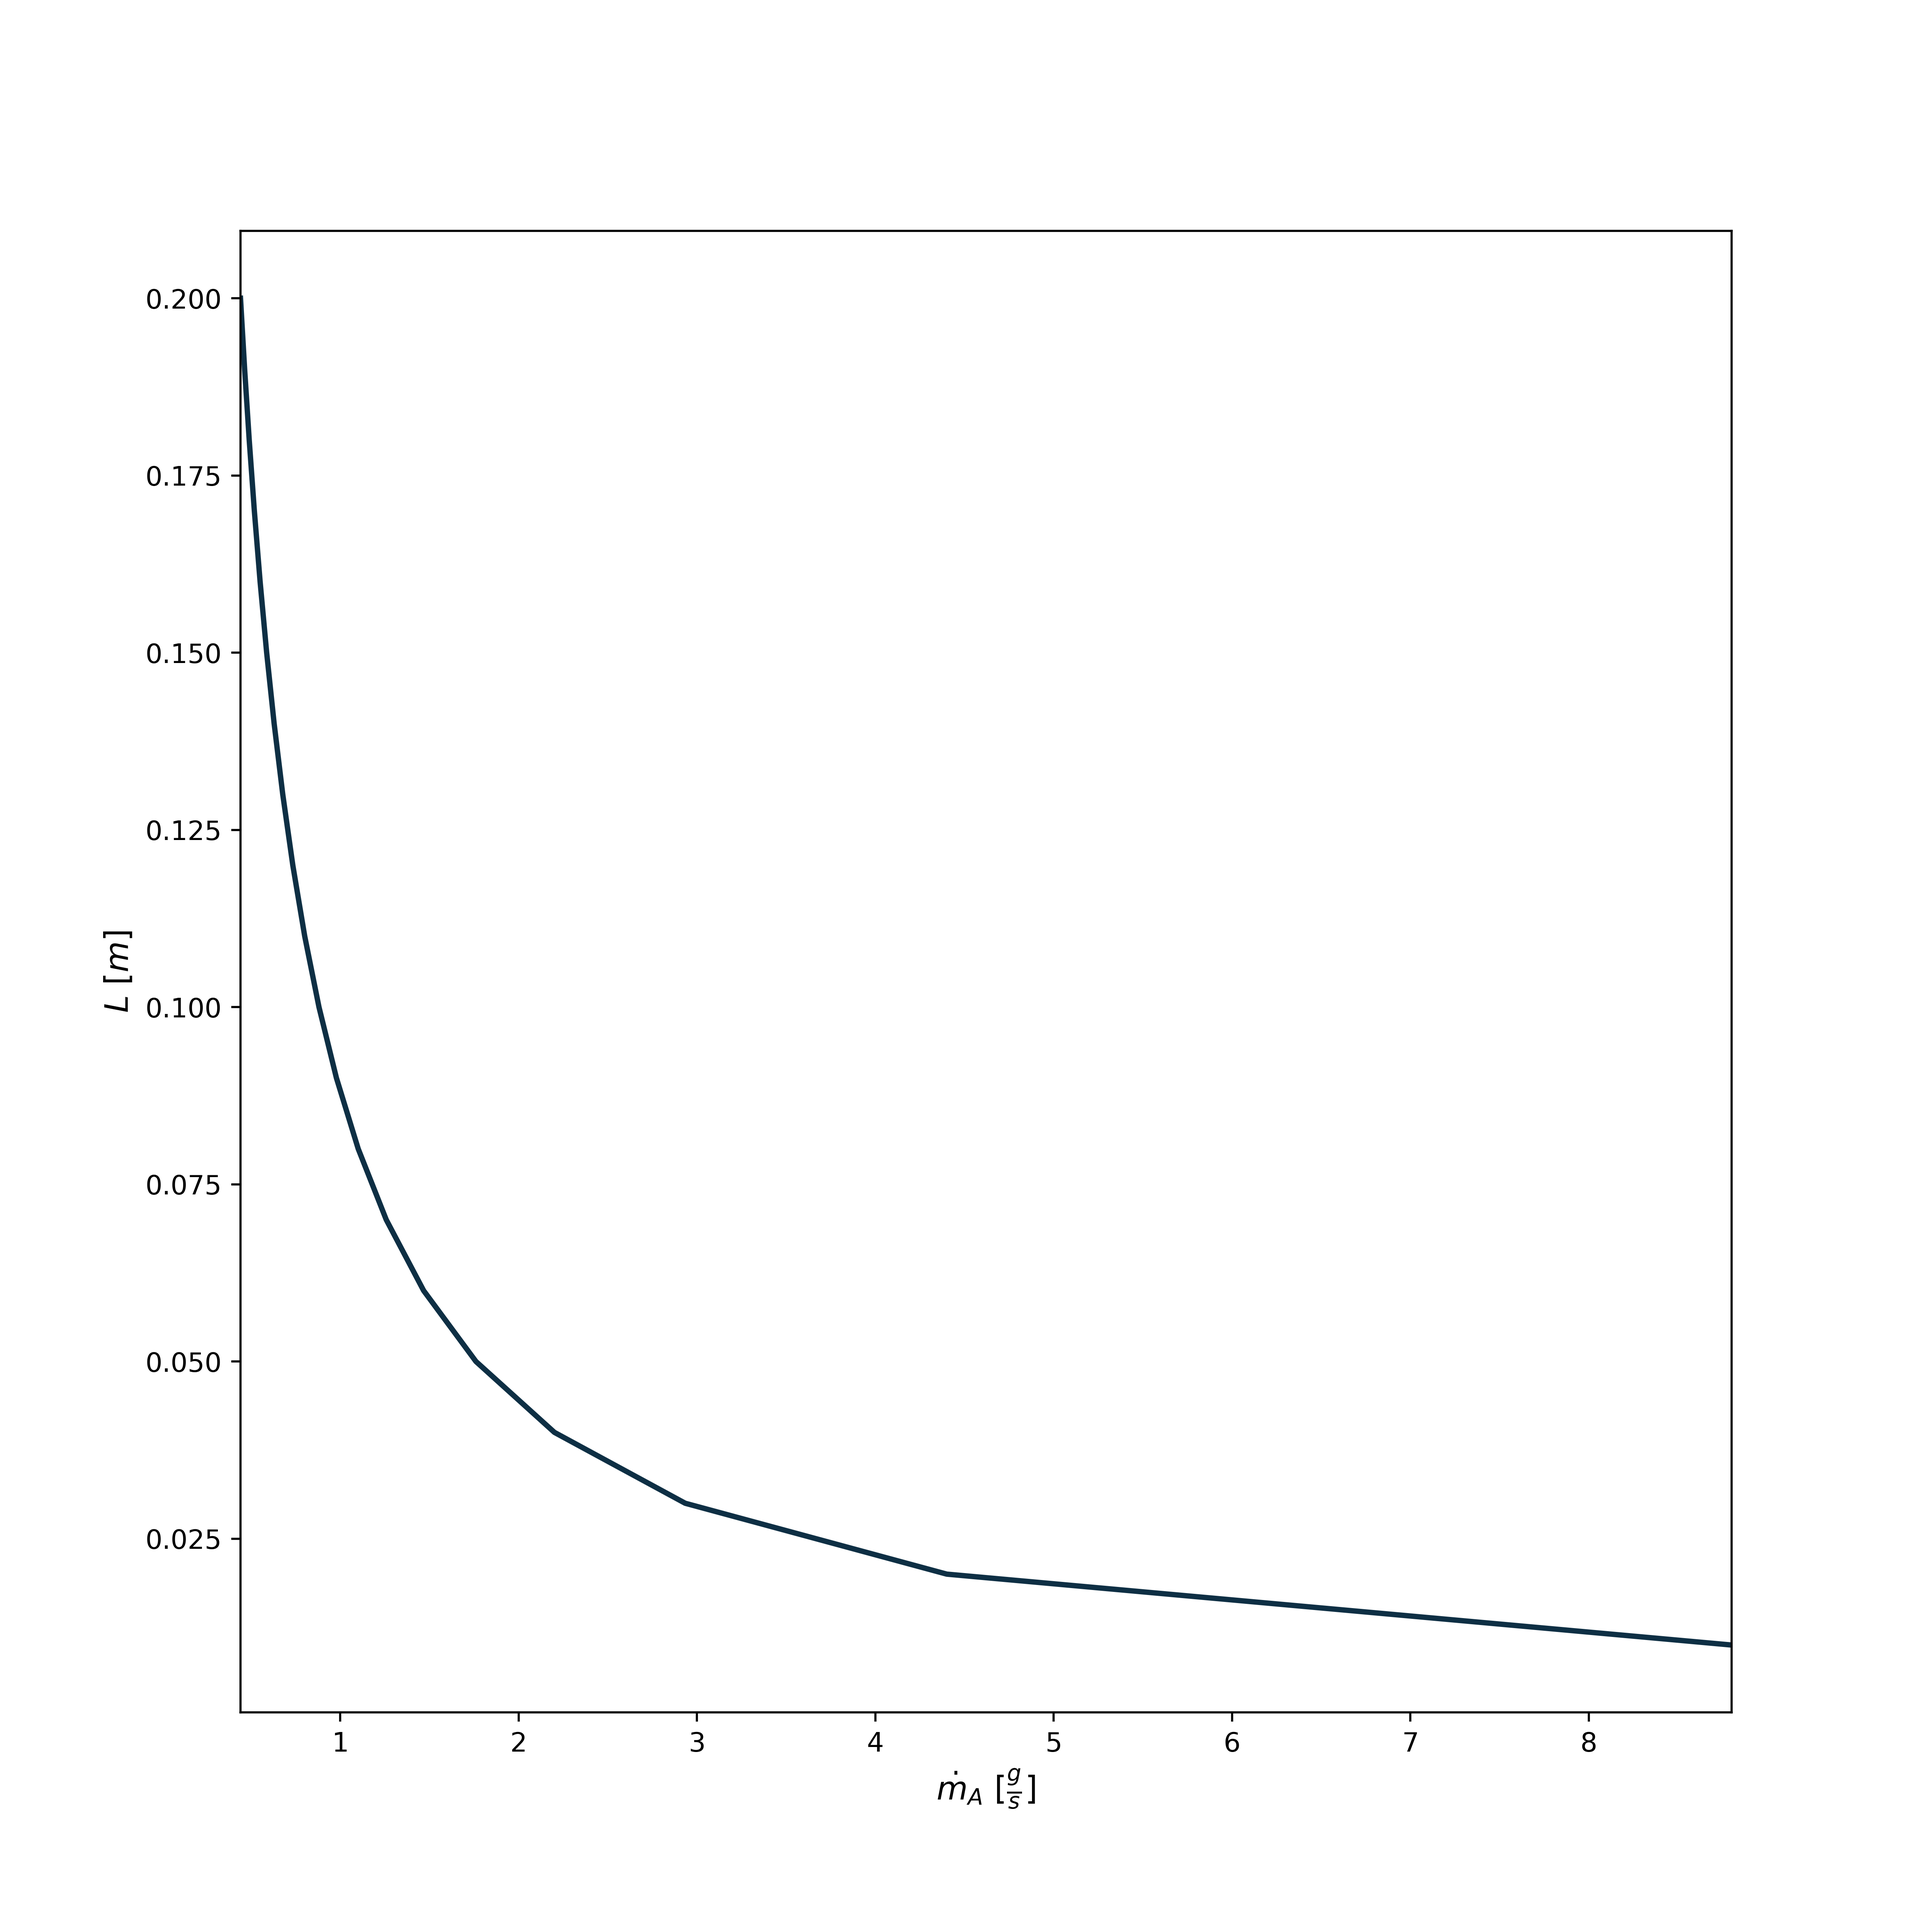
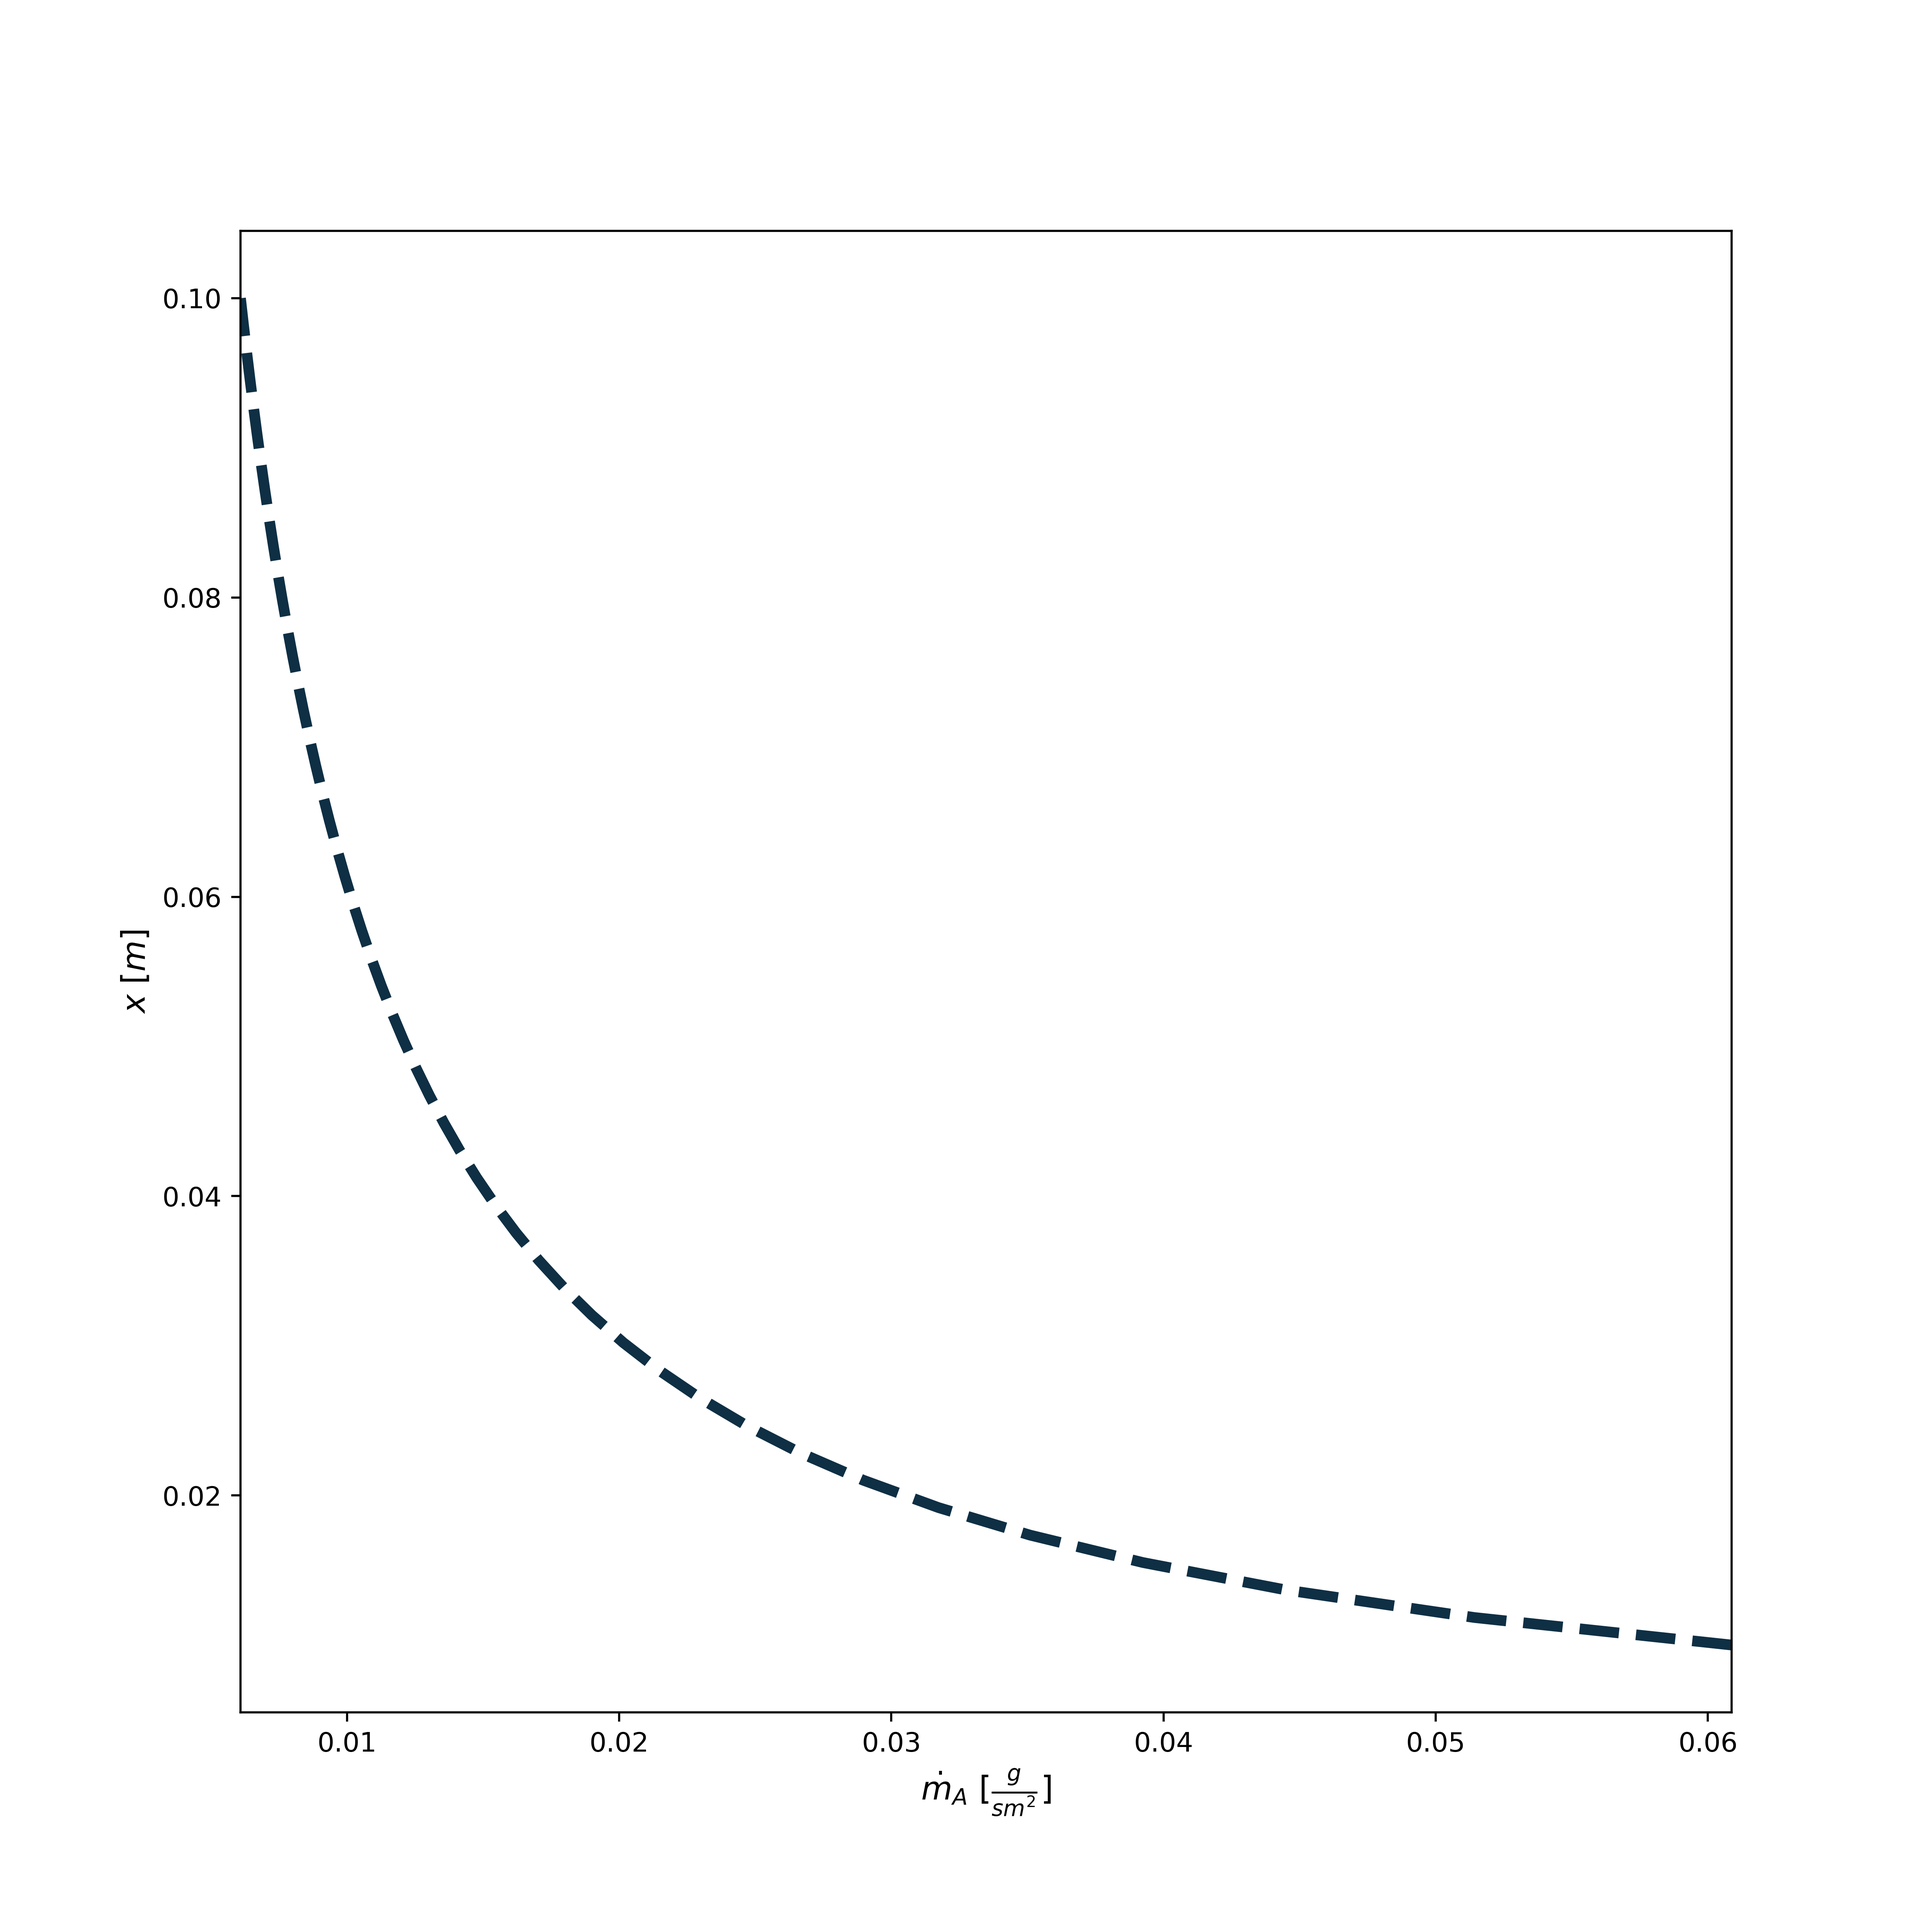
Stefan problem update

diff --git a/Transport_Phenomena/DWGs/stefan-problem.py b/Transport_Phenomena/DWGs/stefan-problem.py
@@ -14,18 +14,28 @@ barColour = '#767676'
 helpLines = "#e5e5e5"
 
 # Data:
-rho_A = 0.01 # [kg/m^3] density of species A
-D_AB = 2.2*10**5 # [m^2/s] binary diffusion coefficient water in air at T=273K
-L = 0.2 # [m] tube length
-Y_A_inf = 0.0001 # [-] species A concentration at infinity
-Y_A_i = 0.0002 # [-] species A concentration at the liquid-gas interface
-Area_tube = 0.02 * 0.02 # [m^2]
+D_AB = 2.6*10**(-5) # [m^2/s] binary diffusion coefficient water in air at T=273K
+L = 0.1 # [m] tube length
+Y_A_inf = 0 # [-] species A concentration at infinity
+Patm = 101325 # [Pa] atmospheric pressure
+MW_A = 18.01528/1000 # [kg/mol] molecular weight of water (A)
+MW_B = 28.97/1000 # [kg/mol] molecular weight of air (B)
+T = 298 # [K]
+R = 8.314 # [J/mol-K] ideal gas constant
+
+# Species A concentration and density at the liquid-gas interface:
+Psat = 3169 # [Pa] saturation pressure of water at 298K from steam tables
+Psat_to_Patm = Psat / Patm # [-]
+MW_mix = Psat_to_Patm * MW_A + (1 - Psat_to_Patm) * MW_B # [kg/mol] molecular weight of the water-air mixture
+Y_A_i =  Psat_to_Patm * MW_A / MW_mix # [-] mass fraction of species A at the interface
+MW_mean = 0.5 * (MW_mix + MW_B) # [kg/mol] mean molecular weight in the tube
+rho_mean = Patm / ((R/MW_mean) * T) # [kg/m^3] mean molecular density in the tube
 
 # Length discretization:
-N = 20
+N = 50
 l = numpy.linspace(0.01, L, N)
 
-mass_flux_A = Area_tube * rho_A * D_AB * math.log((1 - Y_A_inf)/(1 - Y_A_i)) / l * 1000
+mass_flux_A = rho_mean * D_AB * math.log((1 - Y_A_inf)/(1 - Y_A_i)) / l * 1000
 
 dim_mass_flux_A = []
 Y_vals = [0, 0.05, 0.1, 0.2, 0.5, 0.9, 0.999]
@@ -37,9 +47,9 @@ for Y in Y_vals:
 # Plot graph:
 figure1 = plt.figure(figsize=(10, 10))
 ax1 = figure1.add_subplot(1,1,1)
-plt.plot(mass_flux_A, l, color=lineColour, linestyle='-', linewidth=2.0, zorder=1)
-plt.xlabel(r'$\dot{m}_A$ $[\frac{g}{s}]$', fontsize=12)
-plt.ylabel(r'$L$ [$m$]', fontsize=12)
+plt.plot(mass_flux_A, l, color=lineColour, linestyle='--', linewidth=4.0, zorder=1)
+plt.xlabel(r'$\dot{m}_A$ $[\frac{g}{s m^2}]$', fontsize=12)
+plt.ylabel(r'$x$ [$m$]', fontsize=12)
 ax1.margins(x=0)
 plt.rcParams['axes.xmargin'] = 0
 
